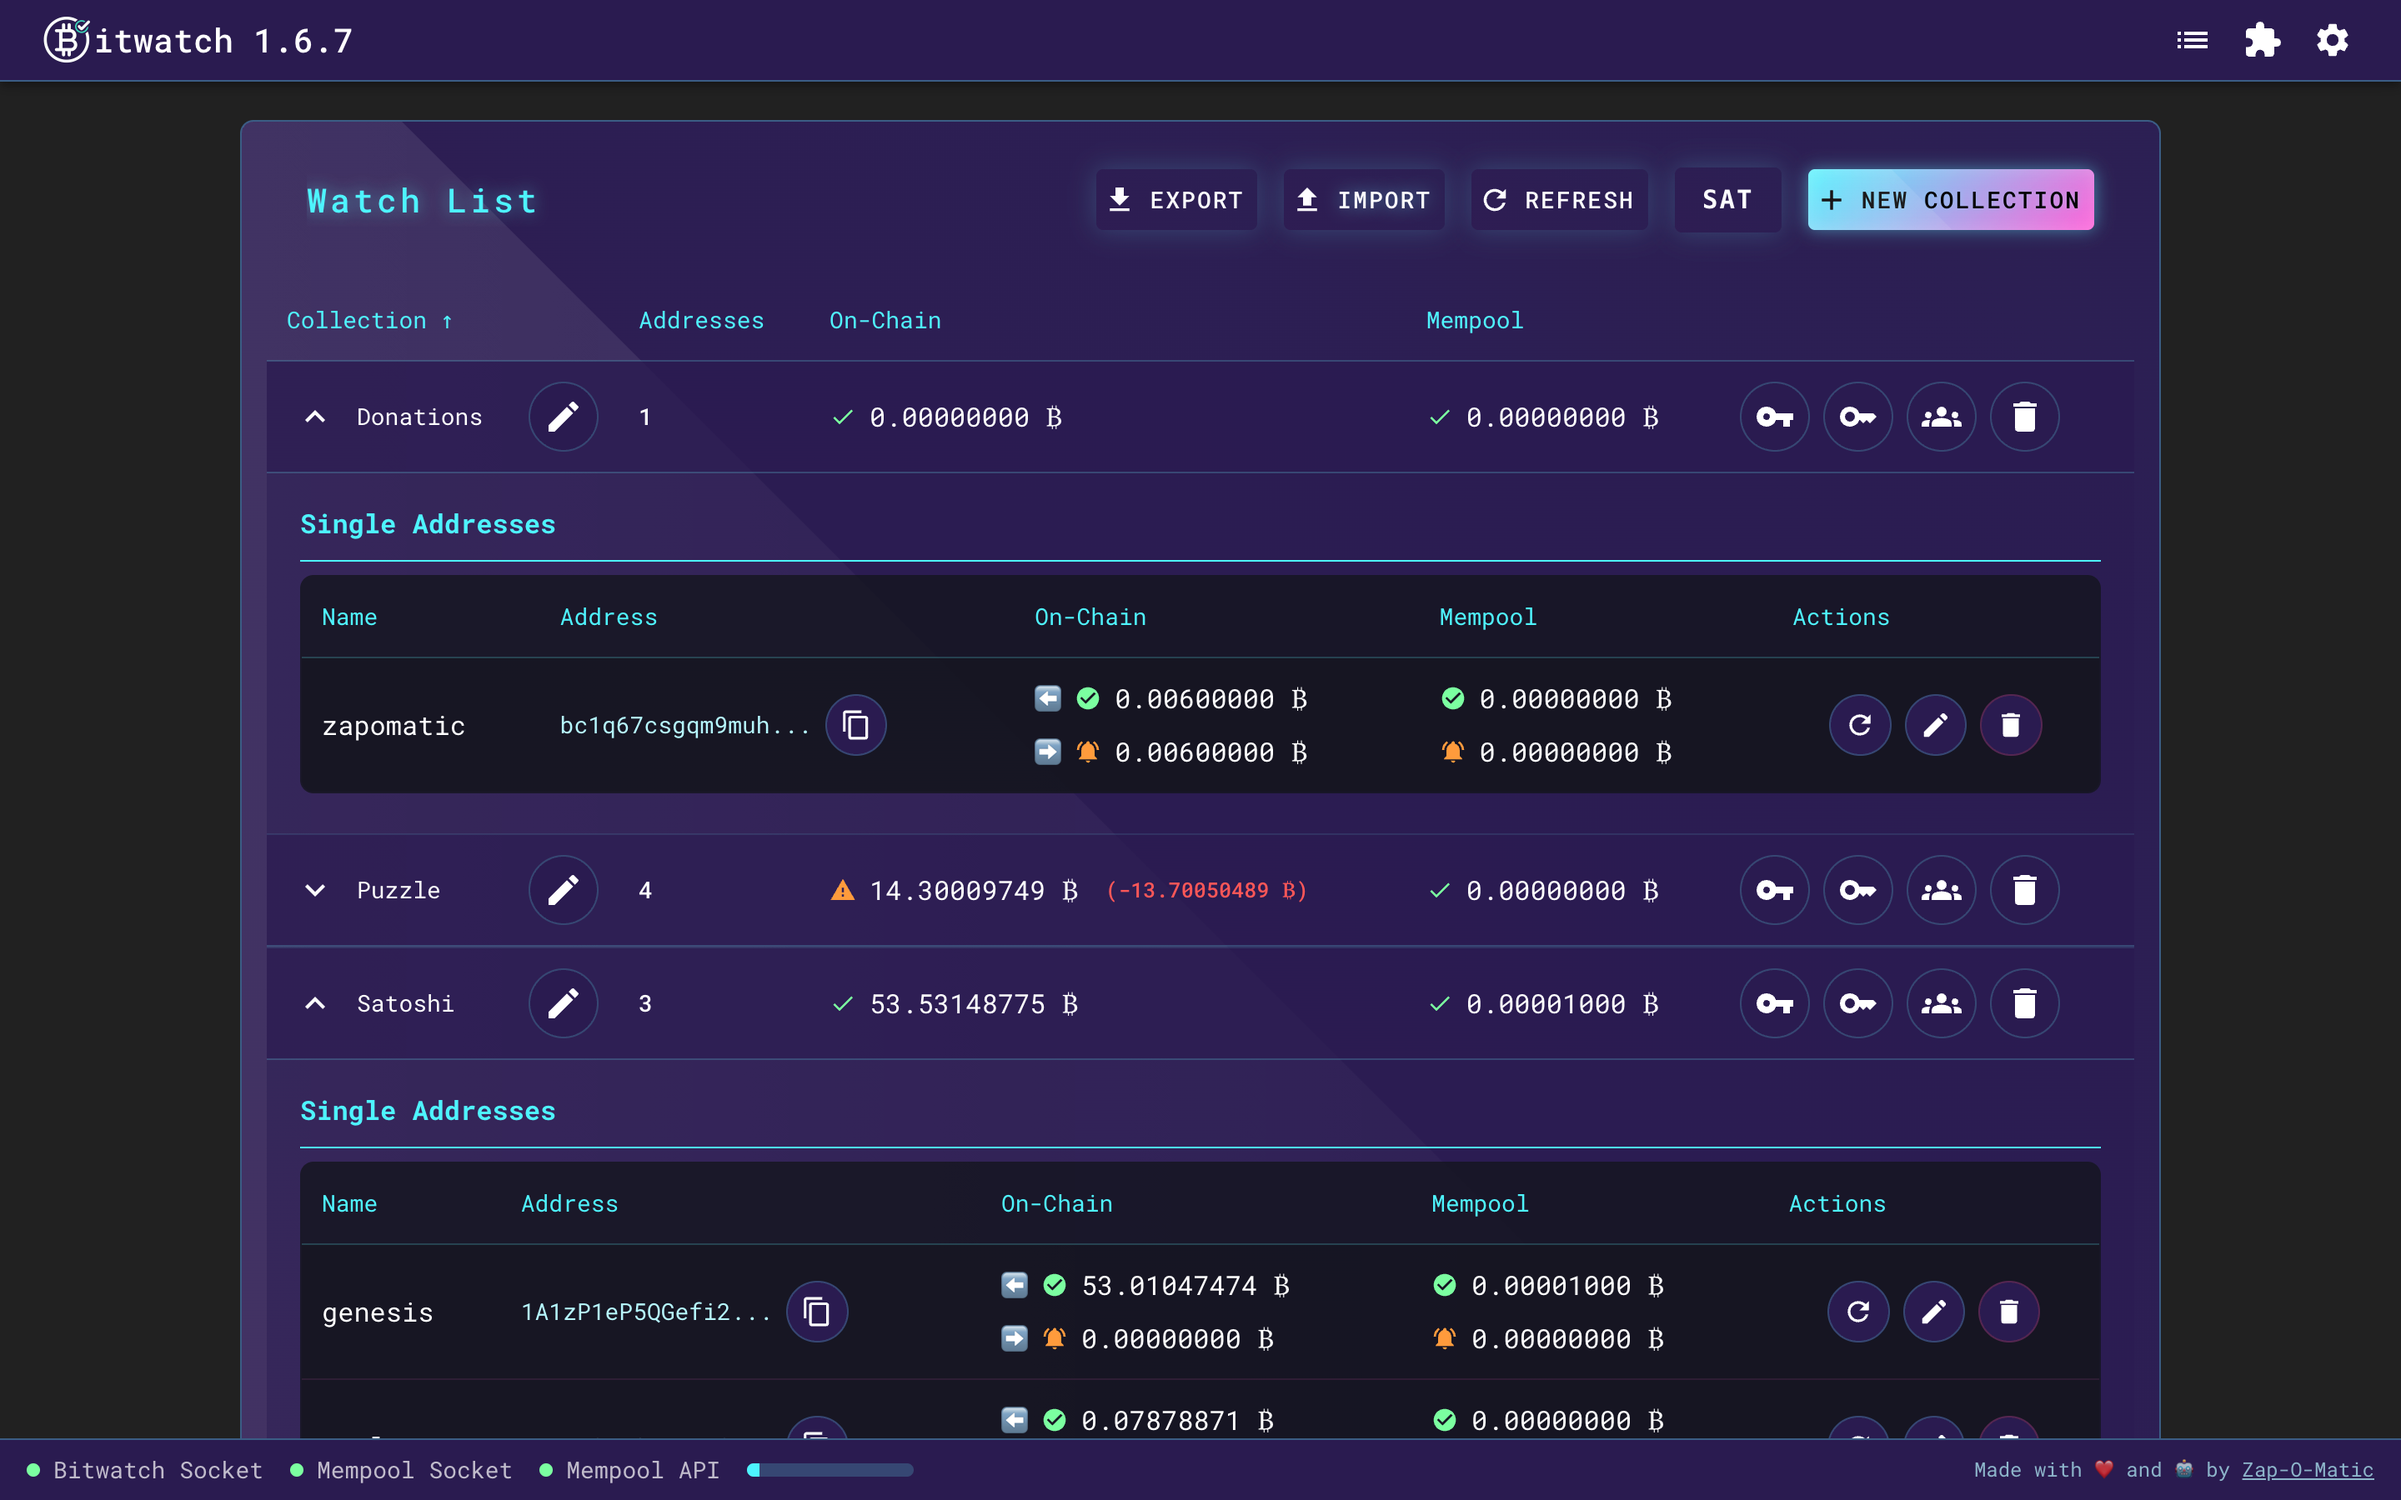
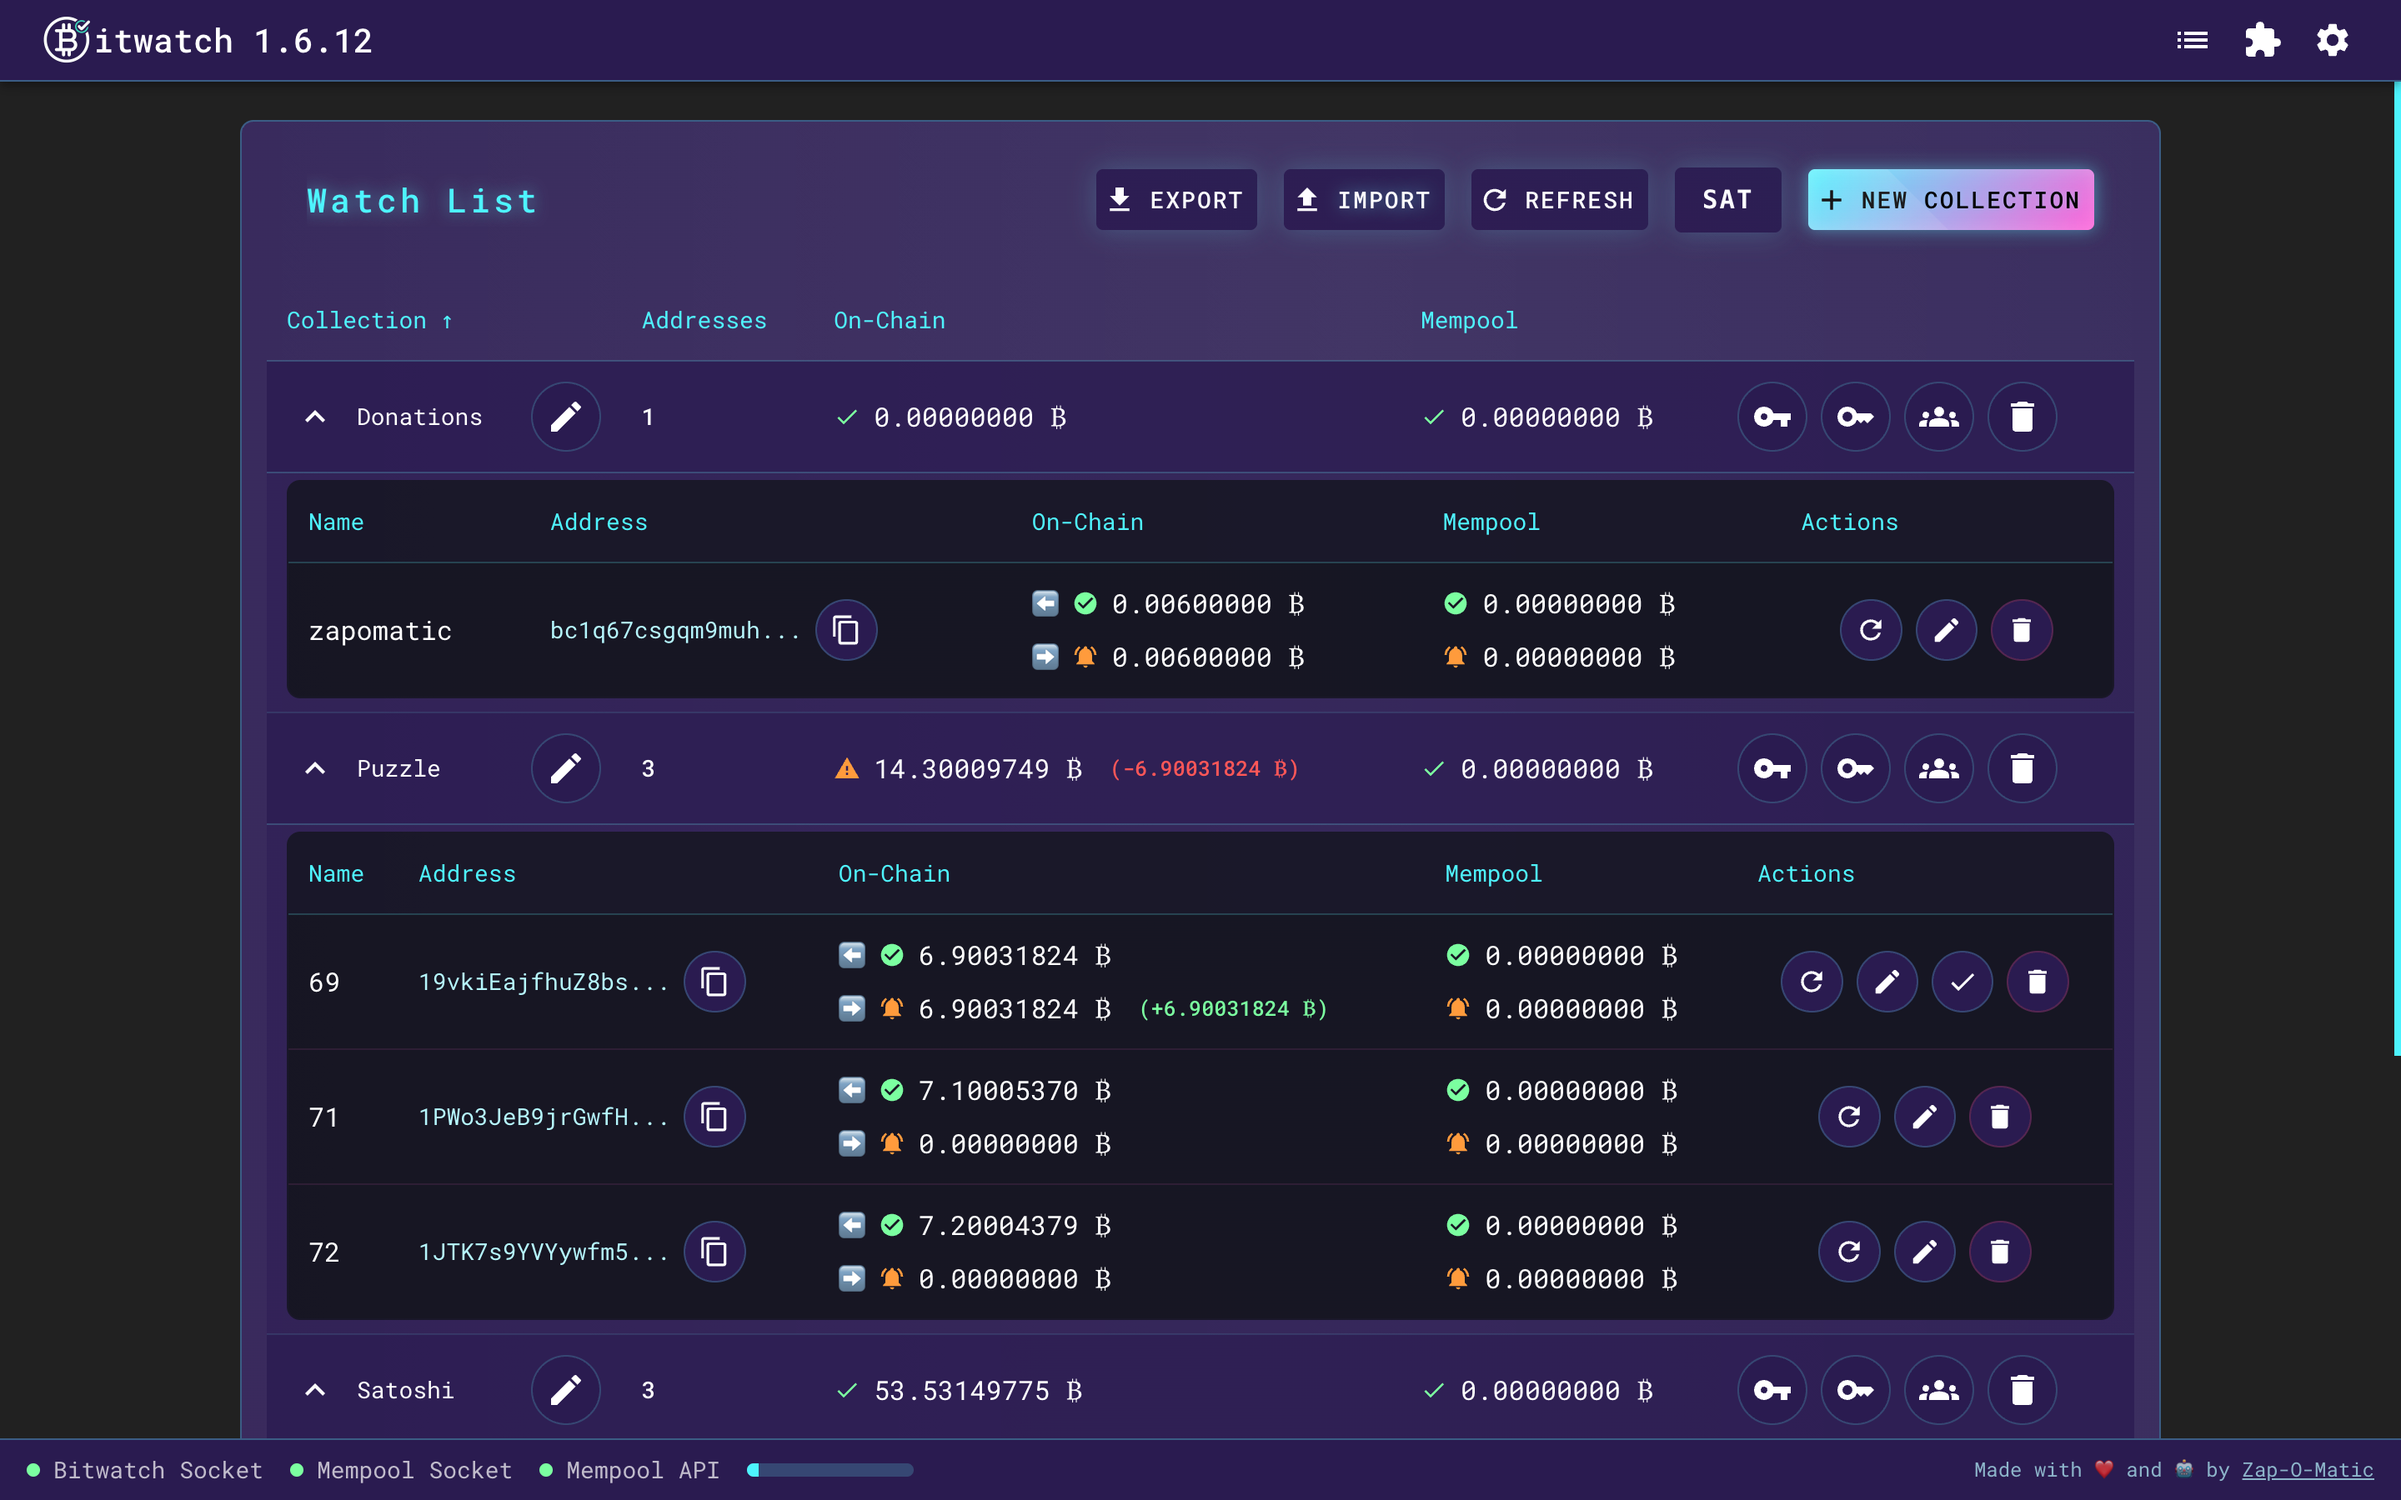
tighten up UI

diff --git a/client/src/Addresses/CollectionRow.js b/client/src/Addresses/CollectionRow.js
@@ -256,23 +256,22 @@ const CollectionRow = ({
       <TableRow>
         <TableCell style={{ paddingBottom: 0, paddingTop: 0 }} colSpan={5}>
           <Collapse in={isExpanded} timeout="auto" unmountOnExit>
-            <Box sx={{ margin: 1 }}>
+            <Box sx={{ margin: 0 }}>
               {/* Single Addresses Table */}
               {collection.addresses?.length > 0 && (
-                <Box sx={{ mb: 3 }}>
-                  <Typography
+                <Box sx={{ mb: 1 }}>
+                  {/* <Typography
                     variant="subtitle1"
                     sx={{
                       mt: 2,
                       mb: 1,
                       color: "var(--theme-secondary)",
                       fontWeight: "bold",
-                      borderBottom: "1px solid var(--theme-secondary)",
                       paddingBottom: "8px",
                     }}
                   >
                     Single Addresses
-                  </Typography>
+                  </Typography> */}
                   <Table
                     size="small"
                     className="crystal-table address-subtable"
@@ -306,8 +305,8 @@ const CollectionRow = ({
               {/* Extended Keys and Descriptors Table */}
               {(collection.extendedKeys?.length > 0 ||
                 collection.descriptors?.length > 0) && (
-                <Box sx={{ mb: 3 }}>
-                  <Typography
+                <Box sx={{ mb: 1 }}>
+                  {/* <Typography
                     variant="subtitle1"
                     sx={{
                       mt: 2,
@@ -319,7 +318,7 @@ const CollectionRow = ({
                     }}
                   >
                     Key-Derived Addresses
-                  </Typography>
+                  </Typography> */}
                   <Table
                     size="small"
                     className="crystal-table address-subtable"
